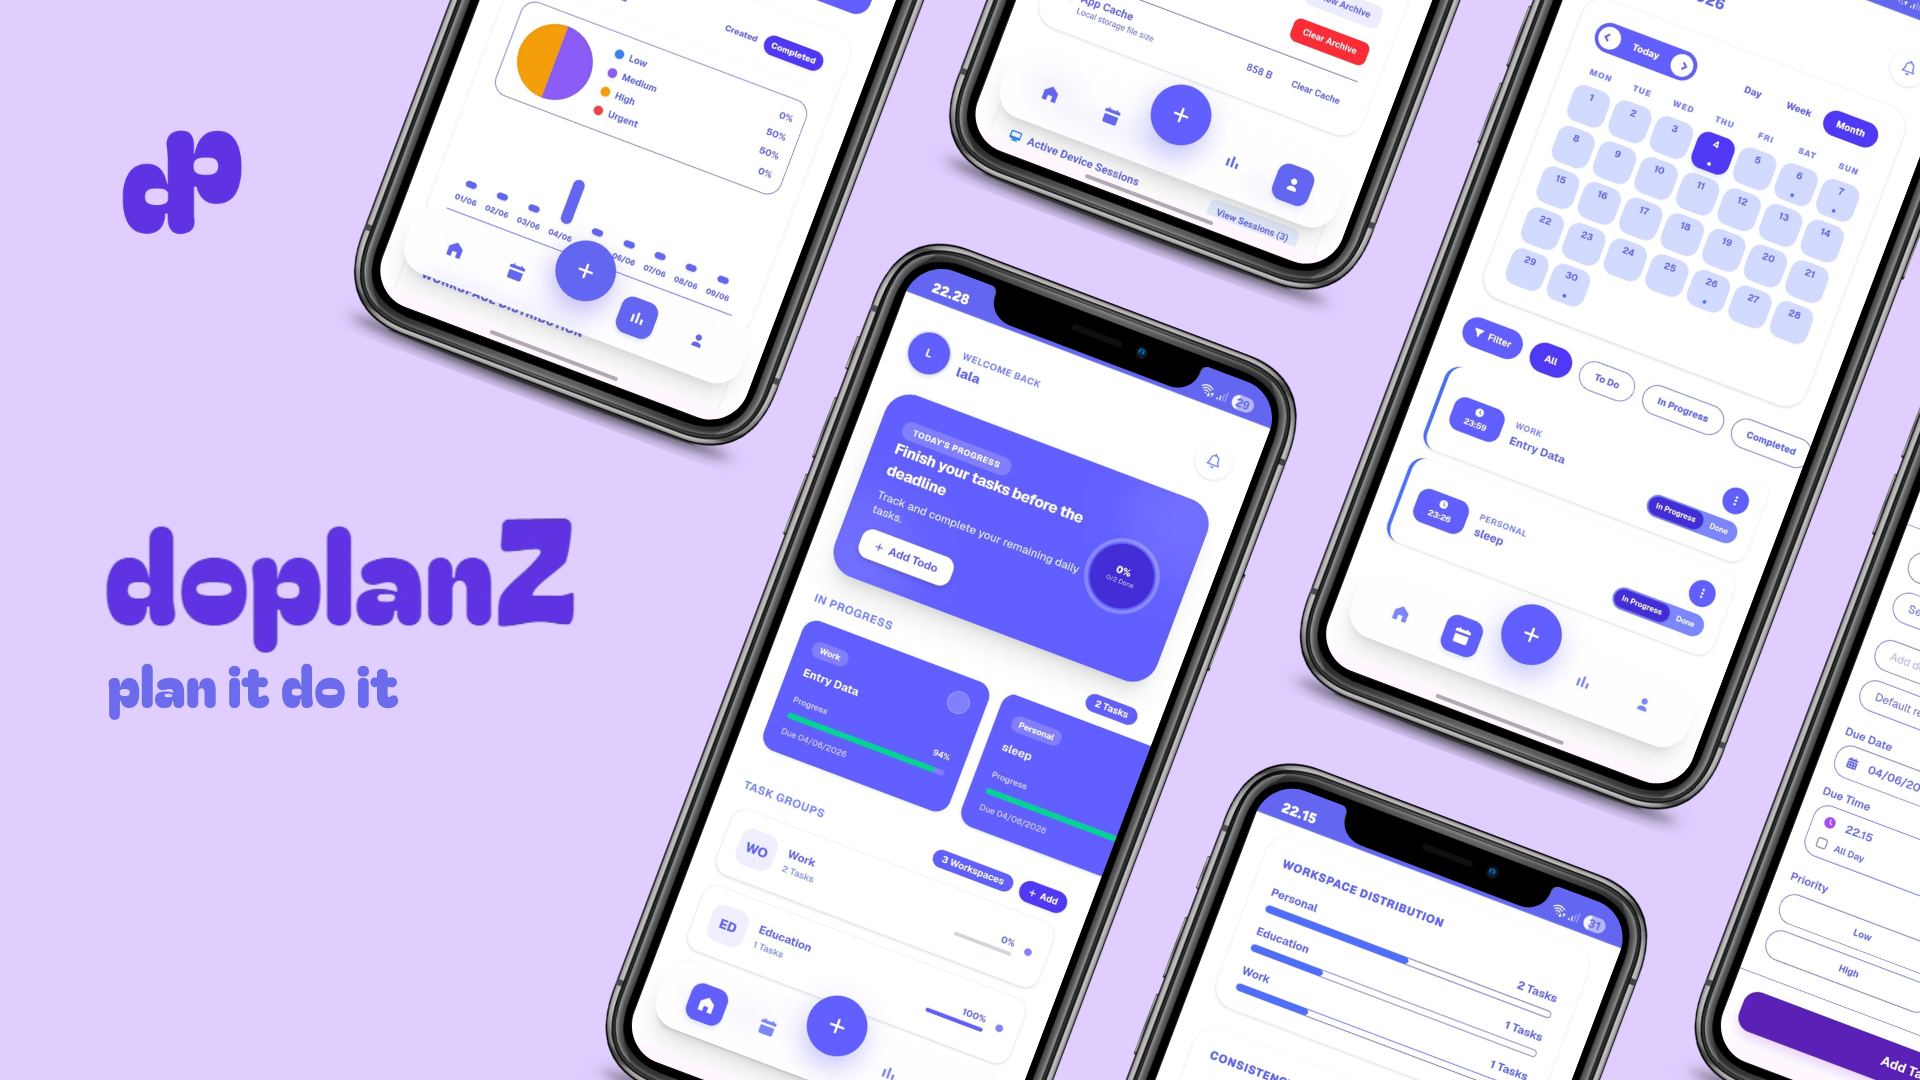
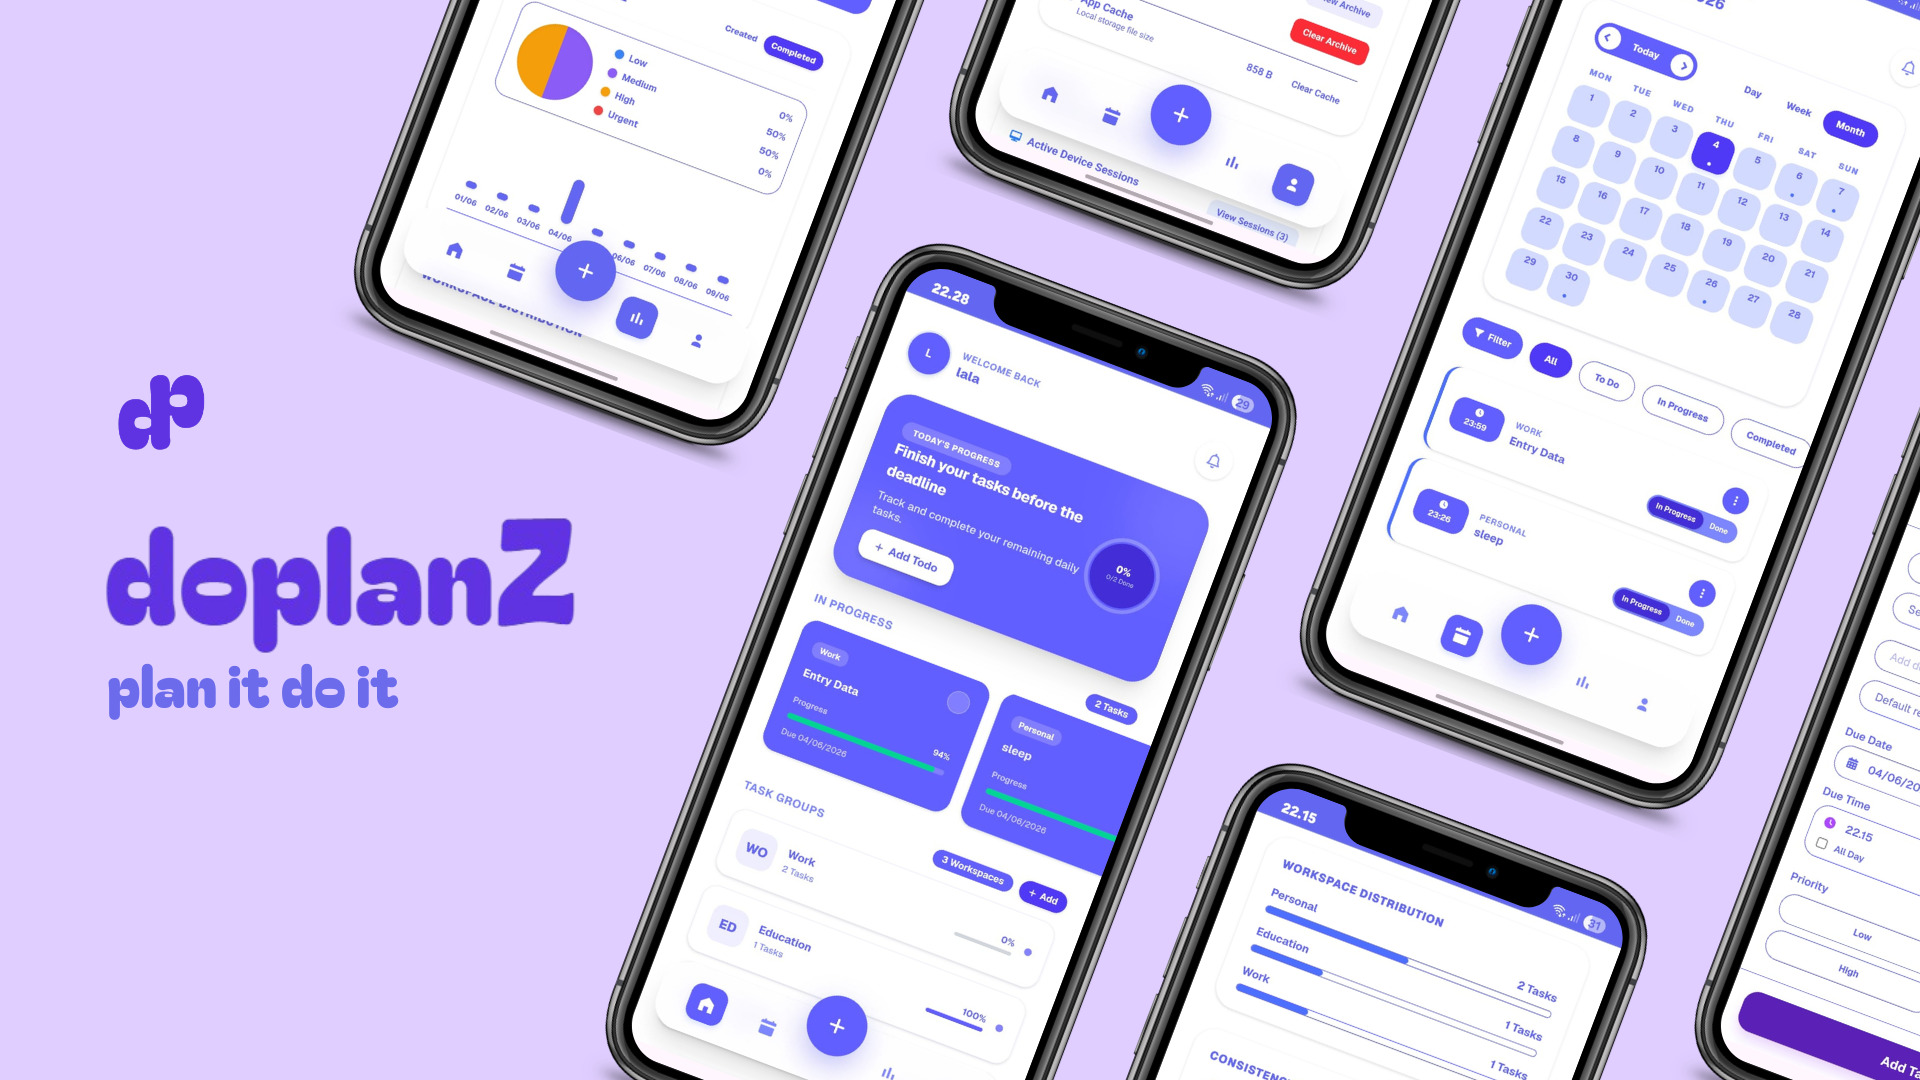
change photo project doplanz

Changed region(s): [[0.0625, 0.1222, 0.125, 0.2139], [0.0625, 0.3361, 0.125, 0.4278]]

diff --git a/components/Work.jsx b/components/Work.jsx
@@ -94,7 +94,7 @@ export default function Work() {
             name: "DoPlanZ - Plan it, Do it",
             icon: "/assets/doplanz.png",
             year: "Jun 2026",
-            link: "https://doplanz.vercel.app",
+            link: "https://doplanz.wiska.site",
             category: { ID: "APLIKASI MOBILE", EN: "MOBILE APP" },
             summary: {
                 ID: "Platform website untuk manajemen tugas berdasarkan kategori dengan fitur perencanaan, penjadwalan, dan laporan.",